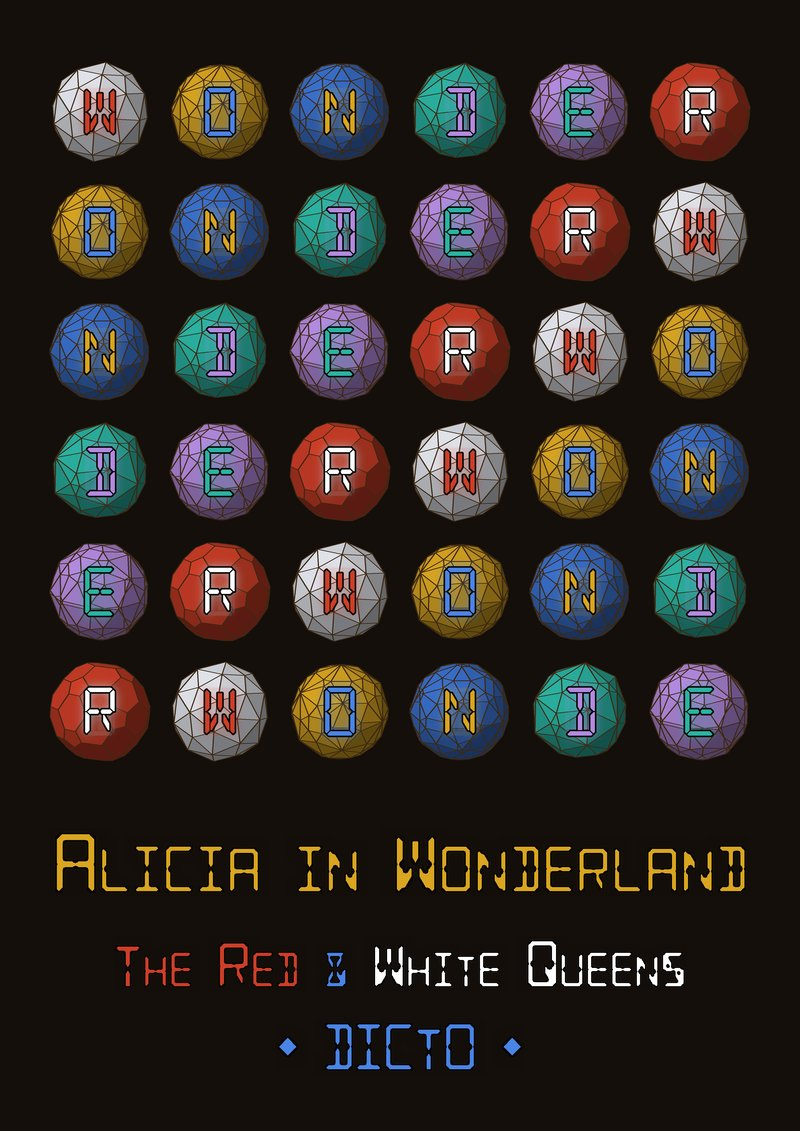
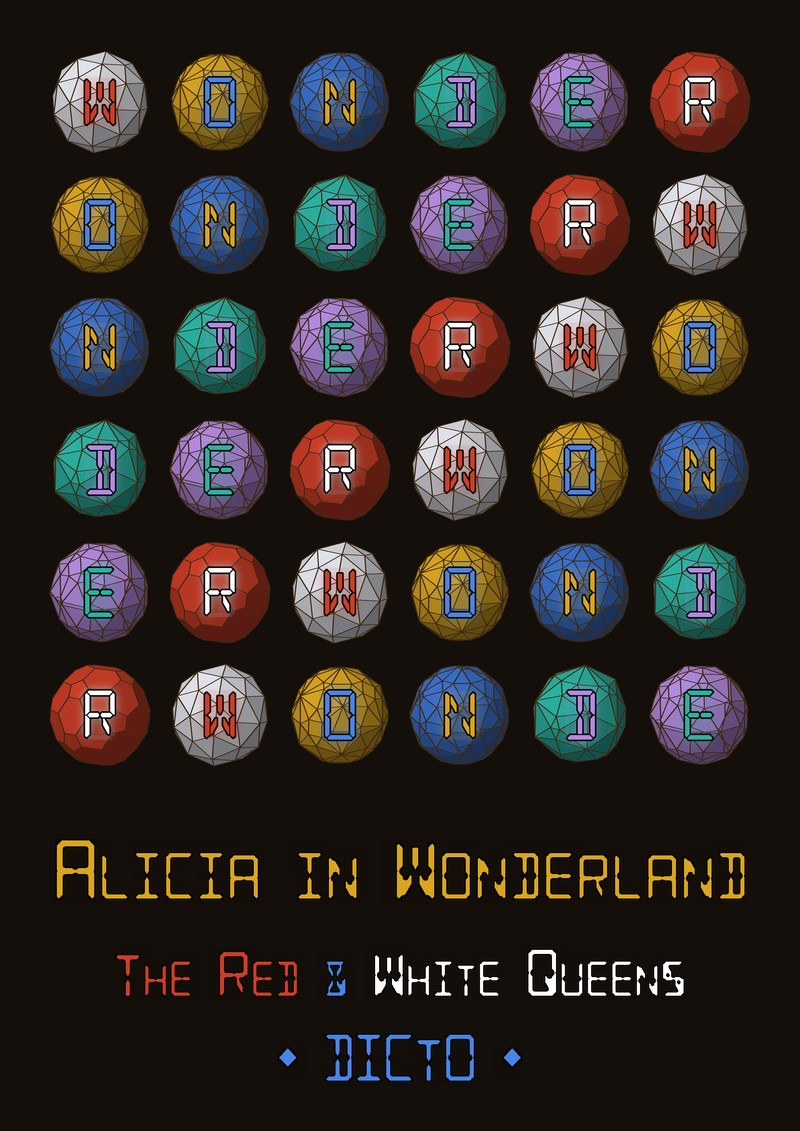
Book covers: Golden Ladder with its top rung (as in the book), Alicia as in Queens v4

diff --git a/index.html b/index.html
@@ -261,11 +261,11 @@
     <div class="shelf-head"><h2 id="books" data-i18n="books.heading">Books</h2><label class="lang-btn" title="Language" data-i18n-attr="title:site.language"><span aria-hidden="true">🌐</span><select aria-label="Language" data-i18n-attr="aria-label:site.language"><option value="en" lang="en">English</option><option value="ja" lang="ja">日本語</option><option value="es" lang="es">Español</option><option value="fr" lang="fr">Français</option><option value="ko" lang="ko">한국어</option><option value="zh" lang="zh">中文</option><option value="ru" lang="ru">Русский</option></select></label></div>
     <p class="disc-note"><span data-i18n="books.note">Books by DICTO: his manifesto, and his papers gathered by theme.</span> <span data-i18n="books.hint">Tap a cover, or point at it, to turn it over.</span></p>
     <div class="books">
-      <div class="book" style="--th:0.0541" data-rel="2026-11-06"><div class="book-in"><span class="book-spine" aria-hidden="true"><span>The Golden Ladder · DICTO</span></span><span class="book-pages" aria-hidden="true"></span><span class="book-top" aria-hidden="true"></span><button type="button" class="book-front" aria-expanded="false" aria-controls="book-ladder"><span class="vh" data-i18n="books.turn">Turn over: </span><img src="papers/golden-ladder-cover.jpg?v=3" alt="The cover of The Golden Ladder: a ladder of gold rails whose rungs climb the dimensions, a truncated triangle in 2D, Icosaxes and Unborn Axes in 3D, the 120-cell in 4D and E8 as two 600-cells in 8D, with the title in LED-style letters" loading="eager" width="800" height="1131"></button><div class="book-back" id="book-ladder" role="group" aria-label="The Golden Ladder: Golden Cuts from Plato to the Eighth Dimension"><div class="bb-scroll"><p class="bb-head"><img class="bb-mark" src="./dicto-logo.png?v=2" alt="" width="18" height="18"><span data-i18n="books.tag">Book</span></p><h3 class="t" data-i18n="books.ladder.title">The Golden Ladder: Golden Cuts from Plato to the Eighth Dimension</h3><p class="s" data-i18n="books.ladder.desc">A ladder whose rungs are dimensions, with something golden on each: one triangle of mirrors and its number, the golden bond in the plane, two golden cuts on every Platonic solid, golden pairs as slices of four-dimensional solids, four-dimensional solids whose every cell is a golden cut, and at the top E8, folding into two 600-cells one golden ratio apart. 96 pages.</p><span class="pdoi"><a class="doi-badge" href="https://doi.org/10.5281/zenodo.23966554" title="DICTO DOI, always the newest version"><span>DICTO DOI</span><span>10.5281/zenodo.23966554</span></a></span></div><span class="btns"><a class="btn" href="https://doi.org/10.5281/zenodo.23966554" data-i18n="books.read">Read the book</a><a class="btn bb-tr" data-tr="{}" hidden data-i18n="books.readtr">Read the translation</a></span><button type="button" class="bb-close" aria-label="Turn back to the front cover" data-i18n-attr="aria-label:books.unflip">↺</button></div></div></div>
+      <div class="book" style="--th:0.0541" data-rel="2026-11-06"><div class="book-in"><span class="book-spine" aria-hidden="true"><span>The Golden Ladder · DICTO</span></span><span class="book-pages" aria-hidden="true"></span><span class="book-top" aria-hidden="true"></span><button type="button" class="book-front" aria-expanded="false" aria-controls="book-ladder"><span class="vh" data-i18n="books.turn">Turn over: </span><img src="papers/golden-ladder-cover.jpg?v=4" alt="The cover of The Golden Ladder: a ladder of gold rails whose rungs climb the dimensions, a truncated triangle in 2D, Icosaxes and Unborn Axes in 3D, the 120-cell in 4D and E8 as two 600-cells in 8D, with the title in LED-style letters" loading="eager" width="800" height="1131"></button><div class="book-back" id="book-ladder" role="group" aria-label="The Golden Ladder: Golden Cuts from Plato to the Eighth Dimension"><div class="bb-scroll"><p class="bb-head"><img class="bb-mark" src="./dicto-logo.png?v=2" alt="" width="18" height="18"><span data-i18n="books.tag">Book</span></p><h3 class="t" data-i18n="books.ladder.title">The Golden Ladder: Golden Cuts from Plato to the Eighth Dimension</h3><p class="s" data-i18n="books.ladder.desc">A ladder whose rungs are dimensions, with something golden on each: one triangle of mirrors and its number, the golden bond in the plane, two golden cuts on every Platonic solid, golden pairs as slices of four-dimensional solids, four-dimensional solids whose every cell is a golden cut, and at the top E8, folding into two 600-cells one golden ratio apart. 96 pages.</p><span class="pdoi"><a class="doi-badge" href="https://doi.org/10.5281/zenodo.23966554" title="DICTO DOI, always the newest version"><span>DICTO DOI</span><span>10.5281/zenodo.23966554</span></a></span></div><span class="btns"><a class="btn" href="https://doi.org/10.5281/zenodo.23966554" data-i18n="books.read">Read the book</a><a class="btn bb-tr" data-tr="{}" hidden data-i18n="books.readtr">Read the translation</a></span><button type="button" class="bb-close" aria-label="Turn back to the front cover" data-i18n-attr="aria-label:books.unflip">↺</button></div></div></div>
       <div class="book" style="--th:0.0775" data-rel="2026-11-05"><div class="book-in"><span class="book-spine" aria-hidden="true"><span>Quanta of Space · DICTO</span></span><span class="book-pages" aria-hidden="true"></span><span class="book-top" aria-hidden="true"></span><button type="button" class="book-front" aria-expanded="false" aria-controls="book-quanta"><span class="vh" data-i18n="books.turn">Turn over: </span><img src="papers/quanta-cover.jpg?v=1" alt="The cover of Quanta of Space: the letters D I C T O in a five by five square, each on a different solid, with the title" loading="eager" width="800" height="1131"></button><div class="book-back" id="book-quanta" role="group" aria-label="Quanta of Space: A Manifesto"><div class="bb-scroll"><p class="bb-head"><img class="bb-mark" src="./dicto-logo.png?v=2" alt="" width="18" height="18"><span data-i18n="books.tag">Book</span></p><h3 class="t" data-i18n="books.quanta.title">Quanta of Space: A Manifesto</h3><p class="s" data-i18n="books.quanta.desc">DICTO's manifesto and the overview of the whole work: is space shared out into pieces, and which? Every paper as a short entry in six chapters, with the rule of halves at the centre; the catalogue of all the atoms has its own volume, The DICTOnary of Atoms. 110 pages.</p><span class="pdoi"><a class="doi-badge" href="https://doi.org/10.5281/zenodo.23754454" title="DICTO DOI, always the newest version"><span>DICTO DOI</span><span>10.5281/zenodo.23754454</span></a></span></div><span class="btns"><a class="btn" href="https://doi.org/10.5281/zenodo.23754454" data-i18n="books.read">Read the book</a><a class="btn bb-tr" data-tr='{"ja": "https://doi.org/10.5281/zenodo.23966535", "zh": "https://doi.org/10.5281/zenodo.24030227", "fa": "https://doi.org/10.5281/zenodo.24037666", "ar": "https://doi.org/10.5281/zenodo.24037670"}' hidden data-i18n="books.readtr">Read the translation</a><a class="btn bb-lang" href="https://doi.org/10.5281/zenodo.23966535" lang="ja" title="空間の量子（日本語訳）">日本語</a><a class="btn bb-lang" href="https://doi.org/10.5281/zenodo.24030227" lang="zh-Hans" title="空间的量子（中文译本）">中文</a><a class="btn bb-lang" href="https://doi.org/10.5281/zenodo.24037666" lang="fa" dir="rtl" title="کوانتومهای فضا (ترجمهٔ فارسی)">فارسی</a><a class="btn bb-lang" href="https://doi.org/10.5281/zenodo.24037670" lang="ar" dir="rtl" title="كمّات الفضاء (الترجمة العربية)">العربية</a></span><button type="button" class="bb-close" aria-label="Turn back to the front cover" data-i18n-attr="aria-label:books.unflip">↺</button></div></div></div>
       <div class="book" style="--th:0.0387" data-rel="2026-11-05"><div class="book-in"><span class="book-spine" aria-hidden="true"><span>The DICTOnary of Atoms · DICTO</span></span><span class="book-pages" aria-hidden="true"></span><span class="book-top" aria-hidden="true"></span><button type="button" class="book-front" aria-expanded="false" aria-controls="book-dictonary"><span class="vh" data-i18n="books.turn">Turn over: </span><img src="papers/dictonary-cover.jpg?v=1" alt="The cover of The DICTOnary of Atoms: the letters D I C T O on five solids in a five by five square, with the title in gold" loading="eager" width="800" height="1131"></button><div class="book-back" id="book-dictonary" role="group" aria-label="The DICTOnary of Atoms: Quanta of Space II"><div class="bb-scroll"><p class="bb-head"><img class="bb-mark" src="./dicto-logo.png?v=2" alt="" width="18" height="18"><span data-i18n="books.tag">Book</span></p><h3 class="t" data-i18n="books.dictonary.title">The DICTOnary of Atoms: Quanta of Space II</h3><p class="s" data-i18n="books.dictonary.desc">The companion to Quanta of Space: the catalogue of all the atoms, every named shape with its D-number and who named it, drawn one by one; the data work by work; and the known and rediscovered shapes. 59 pages.</p><span class="pdoi"><a class="doi-badge" href="https://doi.org/10.5281/zenodo.23966395" title="DICTO DOI, always the newest version"><span>DICTO DOI</span><span>10.5281/zenodo.23966395</span></a></span></div><span class="btns"><a class="btn" href="https://doi.org/10.5281/zenodo.23966395" data-i18n="books.read">Read the book</a><a class="btn bb-tr" data-tr='{"ja": "https://doi.org/10.5281/zenodo.24028641", "zh": "https://doi.org/10.5281/zenodo.24030229", "fa": "https://doi.org/10.5281/zenodo.24037668", "ar": "https://doi.org/10.5281/zenodo.24037672"}' hidden data-i18n="books.readtr">Read the translation</a><a class="btn bb-lang" href="https://doi.org/10.5281/zenodo.24028641" lang="ja" title="DICTO 原子辞典（日本語訳）">日本語</a><a class="btn bb-lang" href="https://doi.org/10.5281/zenodo.24030229" lang="zh-Hans" title="DICTO原子辞典（中文译本）">中文</a><a class="btn bb-lang" href="https://doi.org/10.5281/zenodo.24037668" lang="fa" dir="rtl" title="فرهنگ اتمهای DICTO (ترجمهٔ فارسی)">فارسی</a><a class="btn bb-lang" href="https://doi.org/10.5281/zenodo.24037672" lang="ar" dir="rtl" title="معجم ذرات DICTO (الترجمة العربية)">العربية</a></span><button type="button" class="bb-close" aria-label="Turn back to the front cover" data-i18n-attr="aria-label:books.unflip">↺</button></div></div></div>
       <div class="book" style="--th:0.0479" data-rel="2026-11-01"><div class="book-in"><span class="book-spine" aria-hidden="true"><span>HexOct · DICTO</span></span><span class="book-pages" aria-hidden="true"></span><span class="book-top" aria-hidden="true"></span><button type="button" class="book-front" aria-expanded="false" aria-controls="book-hexoct"><span class="vh" data-i18n="books.turn">Turn over: </span><img src="papers/hexoct-cover.jpg?v=1" alt="The cover of HexOct: The Hexagonality Law, with the Window Law, the Rule of Halves and the Swap Rule: the letters H E X O C T in a six by six square, each on a gold, teal and violet HexOct tile, with the title in LED-style letters" loading="eager" width="800" height="1131"></button><div class="book-back" id="book-hexoct" role="group" aria-label="HexOct: The Hexagonality Law"><div class="bb-scroll"><p class="bb-head"><img class="bb-mark" src="./dicto-logo.png?v=2" alt="" width="18" height="18"><span data-i18n="books.tag">Book</span></p><h3 class="t" data-i18n="books.hexoct.title">HexOct: The Hexagonality Law</h3><p class="sub">with the Window Law, the Rule of Halves &amp; the Swap Rule</p><p class="s" data-i18n="books.hexoct.desc">Sixteen papers in one book, from DICTO's PET-bottle-cap DICTOspheres to spin ice and the two HexOct tiles. The Hexagonality Law is a law of structural crystallography: in every close-packed crystal structure, however its layers are stacked, the space is shared out into finitely many kinds of piece, borrowed whole or in half from the cubic and the hexagonal structures; pieces change only by swapping; and every count is a straight line in the structure's hexagonality, the crystallographers' share of hexagonal layers. Then the law in real materials, from hydrogen in titanium to battery cathodes, ice, diamond, nanowires and magnets. Then HexOct: every stacking is a string of just two tiles, and keyed tiles, HexOct-K, can compute. Last, new in Part IV, the Window Law, which contains the Hexagonality Law and marks its exact reach. Version 11: 134 pages with 13 plates and an index.</p><span class="pdoi"><a class="doi-badge" href="https://doi.org/10.5281/zenodo.23731359" title="DICTO DOI, always the newest version"><span>DICTO DOI</span><span>10.5281/zenodo.23731359</span></a></span></div><span class="btns"><a class="btn" href="https://doi.org/10.5281/zenodo.23731359" data-i18n="books.read">Read the book</a><a class="btn" href="https://kaleidohedra.dictospheres.com/?open=stackings:4H" data-i18n="books.app">View in app</a><a class="btn bb-tr" data-tr="{}" hidden data-i18n="books.readtr">Read the translation</a></span><button type="button" class="bb-close" aria-label="Turn back to the front cover" data-i18n-attr="aria-label:books.unflip">↺</button></div></div></div>
-      <div class="book" style="--th:0.0445" data-rel="2026-10-31"><div class="book-in"><span class="book-spine" aria-hidden="true"><span>Alicia in Wonderland · DICTO</span></span><span class="book-pages" aria-hidden="true"></span><span class="book-top" aria-hidden="true"></span><button type="button" class="book-front" aria-expanded="false" aria-controls="book-alicia"><span class="vh" data-i18n="books.turn">Turn over: </span><img src="papers/alicia-cover.jpg?v=1" alt="The cover of Alicia in Wonderland: The Red and White Queens: the letters W O N D E R in a six by six square on spheres in red, white, gold, blue, teal and lilac, with the title" loading="eager" width="800" height="1131"></button><div class="book-back" id="book-alicia" role="group" aria-label="Alicia in Wonderland: The Red &amp; White Queens"><div class="bb-scroll"><p class="bb-head"><img class="bb-mark" src="./dicto-logo.png?v=2" alt="" width="18" height="18"><span data-i18n="books.tag">Book</span></p><h3 class="t" data-i18n="books.alicia.title">Alicia in Wonderland: The Red &amp; White Queens</h3><p class="s" data-i18n="books.alicia.desc">Two regular solids of four-dimensional space, seen by their shadows and slices: the 600-cell, the White Queen, and its polar partner the 120-cell, the Red Queen, with the work that led to them, from Alicia Boole Stott's slices of 1900 to DICTO's radial cell projection. Aristotle's five pyramids turn out to be the cores of the four-dimensional solids. Version 3: 117 pages with 43 full-page plates.</p><span class="pdoi"><a class="doi-badge" href="https://doi.org/10.5281/zenodo.23753305" title="DICTO DOI, always the newest version"><span>DICTO DOI</span><span>10.5281/zenodo.23753305</span></a></span></div><span class="btns"><a class="btn" href="https://doi.org/10.5281/zenodo.23753305" data-i18n="books.read">Read the book</a><a class="btn" href="https://kaleidohedra.dictospheres.com/?open=whitequeen:shells" data-i18n="books.app">View in app</a><a class="btn bb-tr" data-tr="{}" hidden data-i18n="books.readtr">Read the translation</a></span><button type="button" class="bb-close" aria-label="Turn back to the front cover" data-i18n-attr="aria-label:books.unflip">↺</button></div></div></div>
+      <div class="book" style="--th:0.0445" data-rel="2026-10-31"><div class="book-in"><span class="book-spine" aria-hidden="true"><span>Alicia in Wonderland · DICTO</span></span><span class="book-pages" aria-hidden="true"></span><span class="book-top" aria-hidden="true"></span><button type="button" class="book-front" aria-expanded="false" aria-controls="book-alicia"><span class="vh" data-i18n="books.turn">Turn over: </span><img src="papers/alicia-cover.jpg?v=2" alt="The cover of Alicia in Wonderland: The Red and White Queens: the letters W O N D E R in a six by six square on spheres in red, white, gold, blue, teal and lilac, with the title" loading="eager" width="800" height="1131"></button><div class="book-back" id="book-alicia" role="group" aria-label="Alicia in Wonderland: The Red &amp; White Queens"><div class="bb-scroll"><p class="bb-head"><img class="bb-mark" src="./dicto-logo.png?v=2" alt="" width="18" height="18"><span data-i18n="books.tag">Book</span></p><h3 class="t" data-i18n="books.alicia.title">Alicia in Wonderland: The Red &amp; White Queens</h3><p class="s" data-i18n="books.alicia.desc">Two regular solids of four-dimensional space, seen by their shadows and slices: the 600-cell, the White Queen, and its polar partner the 120-cell, the Red Queen, with the work that led to them, from Alicia Boole Stott's slices of 1900 to DICTO's radial cell projection. Aristotle's five pyramids turn out to be the cores of the four-dimensional solids. Version 3: 117 pages with 43 full-page plates.</p><span class="pdoi"><a class="doi-badge" href="https://doi.org/10.5281/zenodo.23753305" title="DICTO DOI, always the newest version"><span>DICTO DOI</span><span>10.5281/zenodo.23753305</span></a></span></div><span class="btns"><a class="btn" href="https://doi.org/10.5281/zenodo.23753305" data-i18n="books.read">Read the book</a><a class="btn" href="https://kaleidohedra.dictospheres.com/?open=whitequeen:shells" data-i18n="books.app">View in app</a><a class="btn bb-tr" data-tr="{}" hidden data-i18n="books.readtr">Read the translation</a></span><button type="button" class="bb-close" aria-label="Turn back to the front cover" data-i18n-attr="aria-label:books.unflip">↺</button></div></div></div>
       <div class="book" style="--th:0.0583" data-rel="2026-11-03"><div class="book-in"><span class="book-spine" aria-hidden="true"><span>DICTONIC Bonds · DICTO</span></span><span class="book-pages" aria-hidden="true"></span><span class="book-top" aria-hidden="true"></span><button type="button" class="book-front" aria-expanded="false" aria-controls="book-bonds"><span class="vh" data-i18n="books.turn">Turn over: </span><img src="papers/dictonic-bonds-cover.jpg?v=1" alt="The cover of DICTONIC Bonds: the letters D I C T O N I C in an eight by eight square, each on one of the eight pieces of DICTO's four bonds, with the title in LED-style letters" loading="eager" width="800" height="1131"></button><div class="book-back" id="book-bonds" role="group" aria-label="DICTONIC Bonds"><div class="bb-scroll"><p class="bb-head"><img class="bb-mark" src="./dicto-logo.png?v=2" alt="" width="18" height="18"><span data-i18n="books.tag">Book</span></p><h3 class="t" data-i18n="books.bonds.title">DICTONIC Bonds</h3><p class="sub">from the Octet to the Rule of Halves</p><p class="s" data-i18n="books.bonds.desc">A DICTONIC bond is a pair of pieces that fill space together, and there are four: the Golden bond, Icosaxes and Unborn Axes; the Keyed bond, Lotus Jewel Axes and Dodecaxes; the Delian bond, Samson and Delilah; and the Twinned Delian bond, Sonsam and Lahdeli. Eleven papers as eleven chapters, in the order DICTO proposed: every mix of the Platonic solids fills space; the golden and Delian cuts that find the bonds; the web of shared faces as one weight slides; and the Rule of Halves for every close-packed stacking. 106 pages, with an index.</p><span class="pdoi"><a class="doi-badge" href="https://doi.org/10.5281/zenodo.23898027" title="DICTO DOI, always the newest version"><span>DICTO DOI</span><span>10.5281/zenodo.23898027</span></a></span></div><span class="btns"><a class="btn" href="https://doi.org/10.5281/zenodo.23898027" data-i18n="books.read">Read the book</a><a class="btn bb-tr" data-tr="{}" hidden data-i18n="books.readtr">Read the translation</a></span><button type="button" class="bb-close" aria-label="Turn back to the front cover" data-i18n-attr="aria-label:books.unflip">↺</button></div></div></div>
       <div class="series" role="group" aria-labelledby="series-cog">
       <div class="book" style="--th:0.0625" data-rel="2026-10-29"><div class="book-in"><span class="book-spine" aria-hidden="true"><span>The Golden Cycle · DICTO</span></span><span class="book-pages" aria-hidden="true"></span><span class="book-top" aria-hidden="true"></span><button type="button" class="book-front" aria-expanded="false" aria-controls="book-golden"><span class="vh" data-i18n="books.turn">Turn over: </span><img src="papers/golden-cycle-cover.jpg?v=2" alt="The cover of The Golden Cycle: the letters G O L D E N in a six by six square on six solids of the golden cycle, with the title" loading="eager" width="800" height="1131"></button><div class="book-back" id="book-golden" role="group" aria-label="The Golden Cycle: Icosahedral Shells"><div class="bb-scroll"><p class="bb-head"><img class="bb-mark" src="./dicto-logo.png?v=2" alt="" width="18" height="18"><span data-i18n="books.tag">Book</span></p><h3 class="t" data-i18n="books.golden.title">The Golden Cycle: Icosahedral Shells</h3><p class="sub">Cycles of Growth · Part I</p><p class="s" data-i18n="books.golden.desc">Thirteen papers on icosahedral shells, from the Chain of Karma to the gnomon: the icosahedron and the dodecahedron each fill exactly as a shell round the other, the shells alternate without end and grow by φ³ each turn; six solids nest in a cycle, turned inside out it gives a second cycle, and the full turn of twelve stations is a gnomon. 122 pages, with a table of the cycles and an index.</p><span class="pdoi"><a class="doi-badge" href="https://doi.org/10.5281/zenodo.23752452" title="DICTO DOI, always the newest version"><span>DICTO DOI</span><span>10.5281/zenodo.23752452</span></a></span></div><span class="btns"><a class="btn" href="https://doi.org/10.5281/zenodo.23752452" data-i18n="books.read">Read the book</a><a class="btn bb-tr" data-tr="{}" hidden data-i18n="books.readtr">Read the translation</a></span><button type="button" class="bb-close" aria-label="Turn back to the front cover" data-i18n-attr="aria-label:books.unflip">↺</button></div></div></div>
